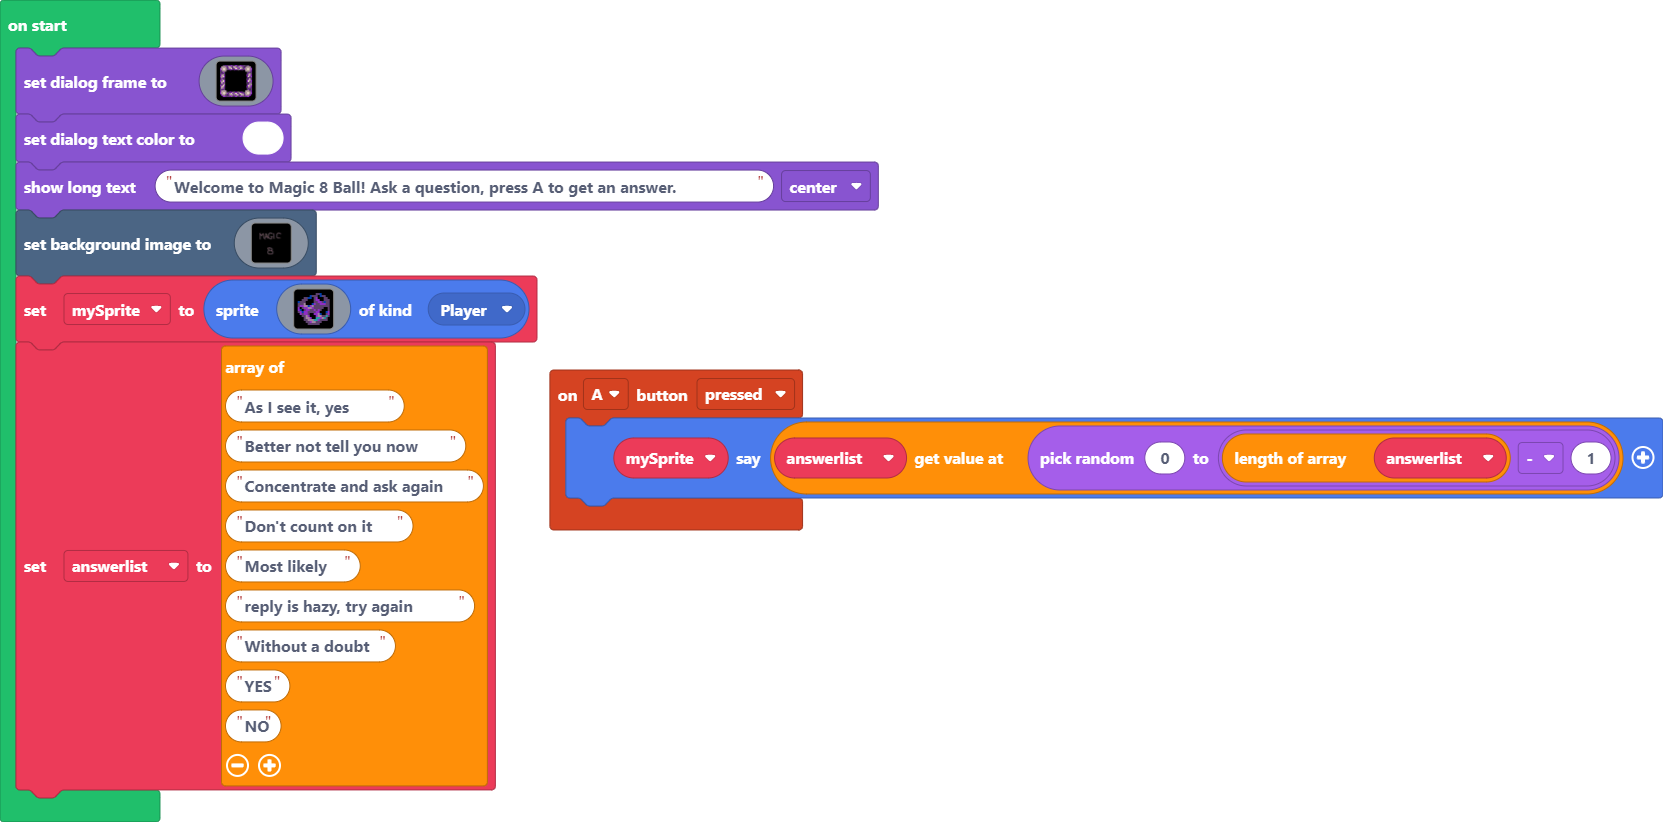
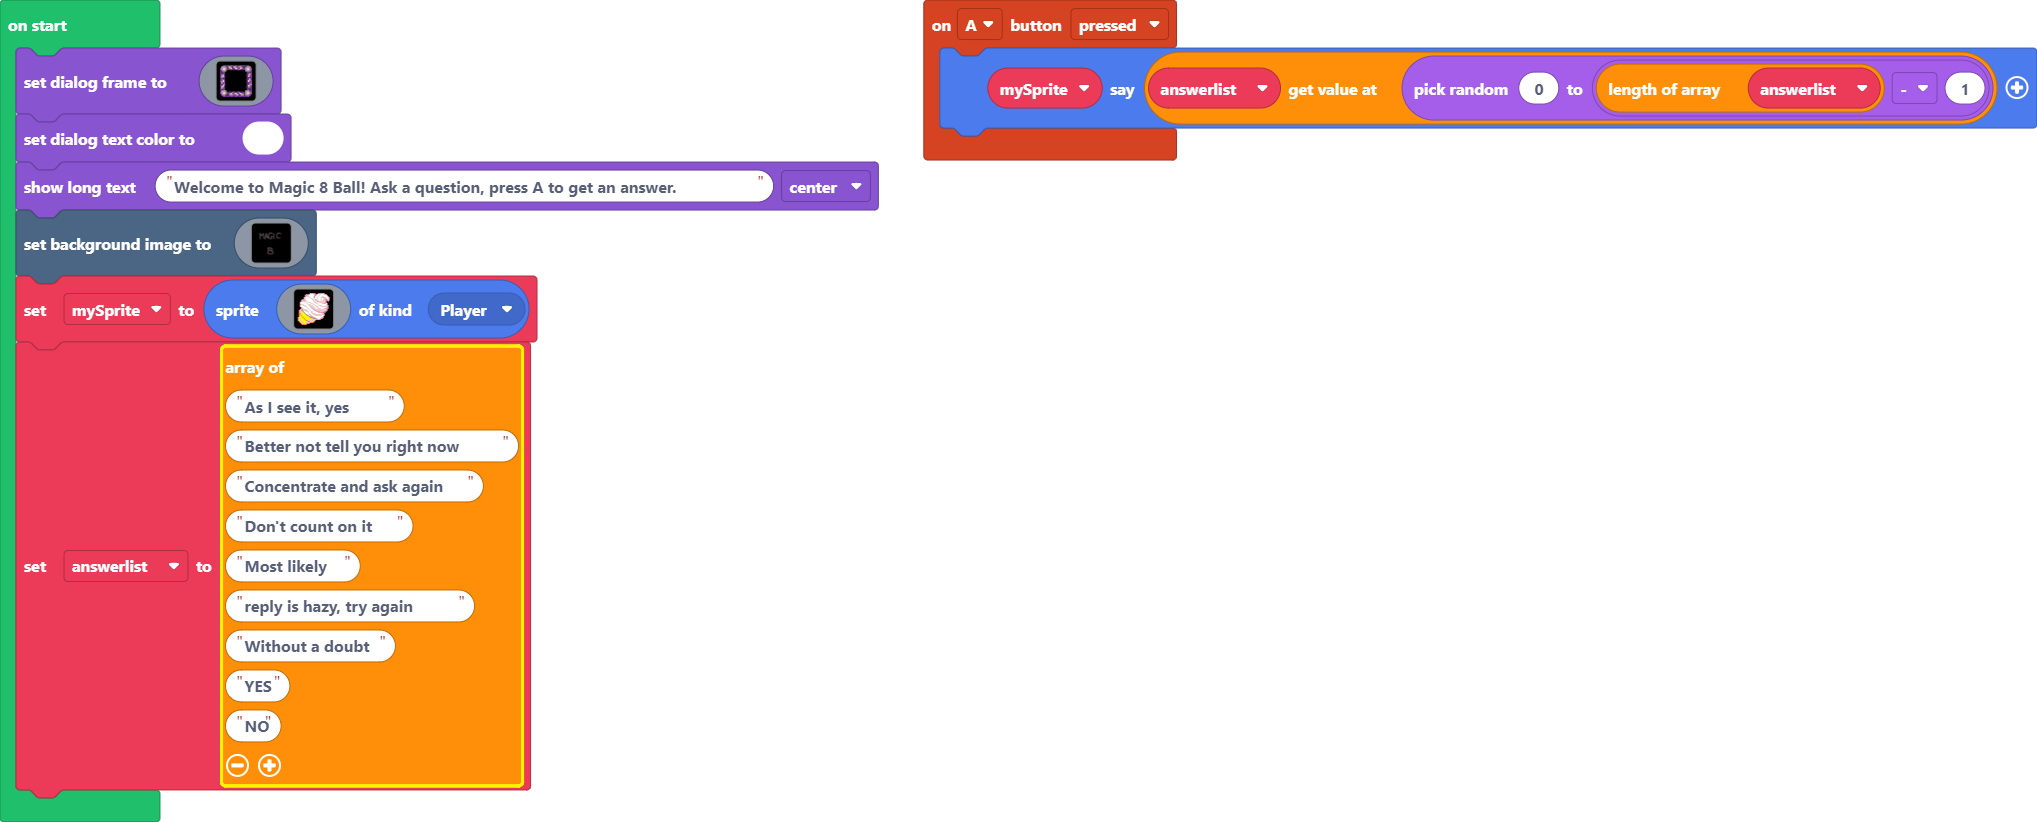
changed now to right now

Changed region(s): [[0.0, 0.0, 1.0, 1.0], [0.0, 0.9428, 0.0307, 0.9732]]

diff --git a/main.ts b/main.ts
@@ -189,7 +189,7 @@ mySprite = sprites.create(img`
     `, SpriteKind.Player)
 answerlist = [
 "As I see it, yes",
-"Better not tell you now",
+"Better not tell you right now",
 "Concentrate and ask again",
 "Don't count on it",
 "Most likely",
